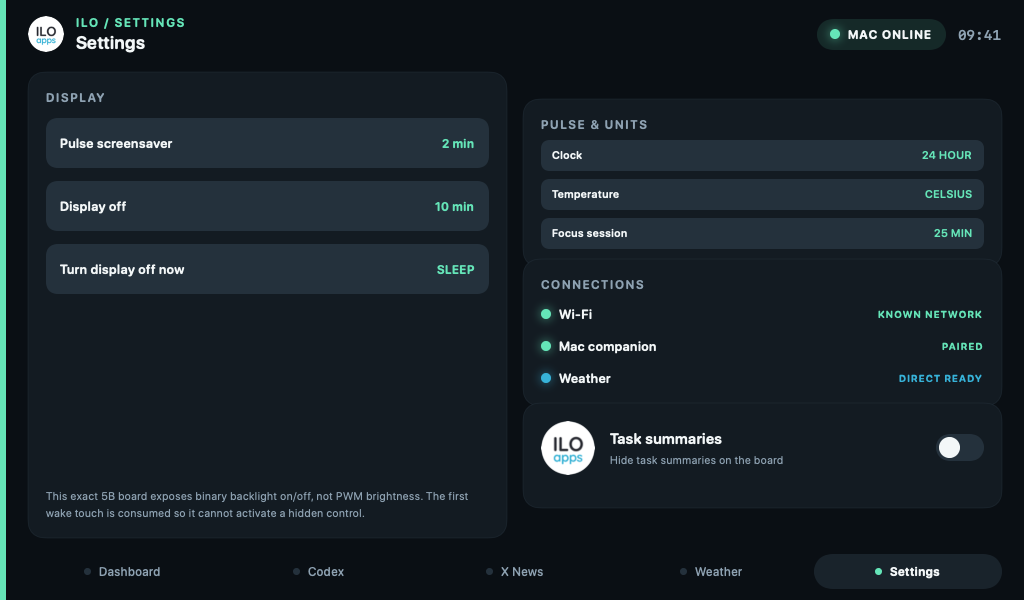
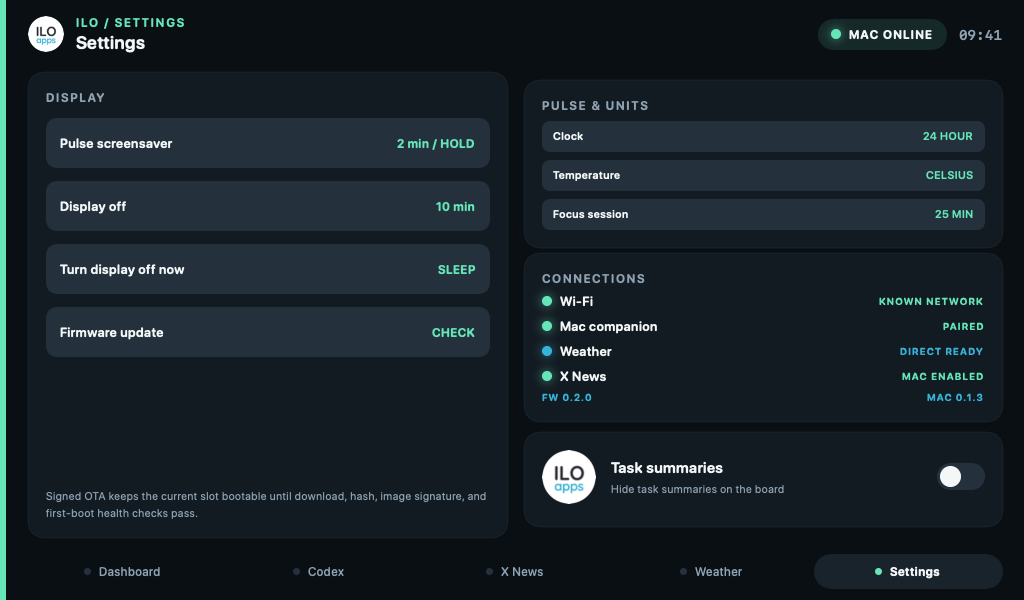
Add ILO PET screensaver hold action

diff --git a/mac-service/Sources/BoardUIPrototype/Views/BoardDeviceView.swift b/mac-service/Sources/BoardUIPrototype/Views/BoardDeviceView.swift
@@ -9,6 +9,7 @@ public struct BoardDeviceView: View {
     @State private var page: BoardPage
     @State private var selectedCodexTask = 0
     @State private var focusContext: FocusPreviewContext?
+    @State private var screensaverVisible = false
     private let interactive: Bool
     private let fixedPage: BoardPage?
     private let scenario: BoardPreviewScenario?
@@ -60,8 +61,12 @@ public struct BoardDeviceView: View {
         Group {
             if scenario == .sleep {
                 BoardSleepValidationView()
-            } else if scenario == .screensaver {
+            } else if scenario == .screensaver || screensaverVisible {
                 BoardScreensaverValidationView()
+                    .contentShape(Rectangle())
+                    .onTapGesture {
+                        if interactive { screensaverVisible = false }
+                    }
             } else {
                 boardSurface
             }
@@ -183,10 +188,18 @@ public struct BoardDeviceView: View {
             case .xNews: XNewsPage(interactive: interactive)
             case .weather: WeatherPage()
             case .settings:
-                SettingsPage(codexEnabled: codexEnabled, xNewsEnabled: xNewsEnabled) { minutes in
-                    guard interactive else { return }
-                    focusContext = FocusPreviewContext(minutes: minutes, title: "Open focus session")
-                }
+                SettingsPage(
+                    codexEnabled: codexEnabled,
+                    xNewsEnabled: xNewsEnabled,
+                    onStartFocus: { minutes in
+                        guard interactive else { return }
+                        focusContext = FocusPreviewContext(minutes: minutes, title: "Open focus session")
+                    },
+                    onShowScreensaver: {
+                        guard interactive else { return }
+                        screensaverVisible = true
+                    }
+                )
             }
         }
     }

diff --git a/mac-service/Sources/BoardUIPrototype/Views/SettingsPage.swift b/mac-service/Sources/BoardUIPrototype/Views/SettingsPage.swift
@@ -6,6 +6,7 @@ struct SettingsPage: View {
     let firmwareVersion: String
     let companionVersion: String
     let onStartFocus: (Int) -> Void
+    let onShowScreensaver: () -> Void
     @State private var screensaverMinutes = 2
     @State private var displayOffMinutes = 10
     @State private var privacyMode = false
@@ -19,13 +20,15 @@ struct SettingsPage: View {
         xNewsEnabled: Bool,
         firmwareVersion: String = "0.2.0",
         companionVersion: String = "0.1.3",
-        onStartFocus: @escaping (Int) -> Void = { _ in }
+        onStartFocus: @escaping (Int) -> Void = { _ in },
+        onShowScreensaver: @escaping () -> Void = {}
     ) {
         self.codexEnabled = codexEnabled
         self.xNewsEnabled = xNewsEnabled
         self.firmwareVersion = firmwareVersion
         self.companionVersion = companionVersion
         self.onStartFocus = onStartFocus
+        self.onShowScreensaver = onShowScreensaver
     }
 
     var body: some View {
@@ -33,9 +36,10 @@ struct SettingsPage: View {
             PulseCard {
                 VStack(alignment: .leading, spacing: 13) {
                     SectionLabel(title: "Display")
-                    settingButton("Pulse screensaver", value: minutes(screensaverMinutes)) {
+                    settingButton("Pulse screensaver", value: "\(minutes(screensaverMinutes)) / HOLD") {
                         screensaverMinutes = next(screensaverMinutes, in: [0, 2, 5])
                     }
+                    .onLongPressGesture(minimumDuration: 0.9, perform: onShowScreensaver)
                     settingButton("Display off", value: minutes(displayOffMinutes)) {
                         displayOffMinutes = next(displayOffMinutes, in: [0, 5, 10, 30])
                     }

diff --git a/mac-service/Sources/BoardUIPrototype/Views/BoardValidationScenarioView.swift b/mac-service/Sources/BoardUIPrototype/Views/BoardValidationScenarioView.swift
@@ -356,7 +356,7 @@ struct BoardScreensaverValidationView: View {
                 Rectangle()
                     .fill(Color(red: 92 / 255, green: 104 / 255, blue: 112 / 255))
                     .frame(width: 2, height: 600)
-                Text("CODEX PET")
+                Text("ILO PET")
                     .font(.board(14, weight: .bold))
                     .tracking(1.0)
                     .foregroundStyle(BoardPalette.signal)
@@ -392,6 +392,6 @@ struct BoardScreensaverValidationView: View {
             .frame(width: 340, height: 600)
         }
         .frame(width: 1024, height: 600)
-        .accessibilityLabel("Pulse screensaver fixture showing clock, date, timezone, and animated Codex Pet Lando")
+        .accessibilityLabel("Pulse screensaver fixture showing clock, date, timezone, and animated ILO PET Lando")
     }
 }

diff --git a/firmware/components/ui/dashboard_ui.c b/firmware/components/ui/dashboard_ui.c
@@ -40,6 +40,7 @@
 #define CODEX_CONTINUE_HOLD_MS 900U
 #define CODEX_RESULT_HOLD_MS 8000U
 #define FOCUS_ACTION_HOLD_MS 900U
+#define SCREENSAVER_ACTION_HOLD_MS 900U
 #define MINIMUM_TRUSTED_EPOCH 1704067200LL
 #define MINUTE_MS 60000U
 #define SCREENSAVER_POSITION_INTERVAL_SECONDS 20U
@@ -154,6 +155,9 @@ static bool focus_hold_consumed;
 static bool focus_end_hold_consumed;
 static bool focus_completion_queued;
 static bool focus_completion_dismissed;
+static uint32_t screensaver_hold_started_tick;
+static bool screensaver_hold_consumed;
+static bool screensaver_forced_visible;
 static lv_obj_t *settings_x_news_value;
 static lv_obj_t *settings_connection_values;
 static lv_obj_t *settings_versions_value;
@@ -216,6 +220,7 @@ static void build_codex_chat_overlay(lv_obj_t *screen);
 static void build_focus_overlay(lv_obj_t *screen);
 static void refresh_focus_overlay(void);
 static bool start_focus_session(const char *title);
+static void show_screensaver_now(void);
 static double display_temperature(float celsius);
 static const char *temperature_unit(void);
 
@@ -1324,6 +1329,7 @@ static void refresh_settings_labels(void)
     char value[20];
     if (settings_screensaver_value != NULL) {
         format_minutes(value, sizeof(value), current_settings.screensaver_minutes);
+        strlcat(value, " / HOLD", sizeof(value));
         lv_label_set_text(settings_screensaver_value, value);
     }
     if (settings_display_off_value != NULL) {
@@ -1699,7 +1705,23 @@ static void focus_timer_tick(void)
 
 static void screensaver_setting_tapped(lv_event_t *event)
 {
-    if (lv_event_get_code(event) != LV_EVENT_CLICKED) return;
+    lv_event_code_t code = lv_event_get_code(event);
+    if (code == LV_EVENT_PRESSED) {
+        screensaver_hold_started_tick = lv_tick_get();
+        screensaver_hold_consumed = false;
+        return;
+    }
+    if (code == LV_EVENT_PRESSING && !screensaver_hold_consumed
+        && lv_tick_elaps(screensaver_hold_started_tick) >= SCREENSAVER_ACTION_HOLD_MS) {
+        screensaver_hold_consumed = true;
+        show_screensaver_now();
+        return;
+    }
+    if (code != LV_EVENT_CLICKED) return;
+    if (screensaver_hold_consumed) {
+        screensaver_hold_consumed = false;
+        return;
+    }
     current_settings.screensaver_minutes = device_settings_next_screensaver(current_settings.screensaver_minutes);
     device_settings_save(&current_settings);
     refresh_settings_labels();
@@ -1775,6 +1797,7 @@ static void focus_setting_tapped(lv_event_t *event)
 static void sleep_now_tapped(lv_event_t *event)
 {
     if (lv_event_get_code(event) != LV_EVENT_RELEASED) return;
+    screensaver_forced_visible = false;
     lv_obj_remove_flag(screensaver, LV_OBJ_FLAG_HIDDEN);
     lando_screensaver_set_active(false);
     if (board_waveshare_5_set_backlight(false) == ESP_OK) {
@@ -2148,6 +2171,7 @@ static void nav_tapped(lv_event_t *event)
 static void screensaver_tapped(lv_event_t *event)
 {
     if (lv_event_get_code(event) == LV_EVENT_PRESSED) {
+        screensaver_forced_visible = false;
         board_waveshare_5_set_backlight(true);
         display_asleep = false;
         lando_screensaver_set_active(false);
@@ -2163,6 +2187,17 @@ static void reset_screensaver_position(void)
     if (screensaver_content != NULL) {
         lv_obj_set_pos(screensaver_content, 132, 214);
     }
+}
+
+static void show_screensaver_now(void)
+{
+    screensaver_forced_visible = true;
+    reset_screensaver_position();
+    refresh_clock_labels();
+    lv_obj_remove_flag(screensaver, LV_OBJ_FLAG_HIDDEN);
+    lv_obj_move_foreground(screensaver);
+    lando_screensaver_set_active(true);
+    lv_display_trigger_activity(ui_display);
 }
 
 static void advance_screensaver_position(void)
@@ -2201,6 +2236,7 @@ static void screensaver_timer(lv_timer_t *timer)
     uint32_t off_timeout = (uint32_t)current_settings.display_off_minutes * MINUTE_MS;
 
     if (!display_asleep && off_timeout > 0 && inactive >= off_timeout) {
+        screensaver_forced_visible = false;
         lv_obj_remove_flag(screensaver, LV_OBJ_FLAG_HIDDEN);
         lando_screensaver_set_active(false);
         if (board_waveshare_5_set_backlight(false) == ESP_OK) {
@@ -2212,7 +2248,7 @@ static void screensaver_timer(lv_timer_t *timer)
         lando_screensaver_set_active(false);
         return;
     }
-    if (saver_timeout > 0 && inactive >= saver_timeout) {
+    if (screensaver_forced_visible || (saver_timeout > 0 && inactive >= saver_timeout)) {
         lv_obj_remove_flag(screensaver, LV_OBJ_FLAG_HIDDEN);
         lando_screensaver_set_active(true);
         advance_screensaver_position();

diff --git a/firmware/components/ui/lando_screensaver.c b/firmware/components/ui/lando_screensaver.c
@@ -170,7 +170,7 @@ lv_obj_t *lando_screensaver_create(lv_obj_t *parent)
     lv_obj_set_style_radius(divider, 0, 0);
     lv_obj_clear_flag(divider, LV_OBJ_FLAG_SCROLLABLE | LV_OBJ_FLAG_CLICKABLE);
 
-    lv_obj_t *eyebrow = create_label(panel, "CODEX PET", &lv_font_montserrat_14, LANDO_COLOR_SIGNAL);
+    lv_obj_t *eyebrow = create_label(panel, "ILO PET", &lv_font_montserrat_14, LANDO_COLOR_SIGNAL);
     lv_obj_set_pos(eyebrow, 34, 42);
     lv_obj_t *name = create_label(panel, "LANDO", &lv_font_montserrat_28, LANDO_COLOR_MIST);
     lv_obj_set_pos(name, 34, 68);

diff --git a/README.md b/README.md
@@ -198,13 +198,23 @@ These are deterministic desktop renders with sample data, not photographs of the
   <img src="docs/images/ui-preview/settings.png" alt="ILO Board Settings simulator screen" width="49%">
 </p>
 
-The Settings screen now cycles and persists the clock format (12/24 hour), temperature units, focus duration (25/45/60 minutes), Pulse screensaver timeout (`Never`, 2, or 5 minutes), display-off timeout (`Never`, 5, 10, or 30 minutes), and whether task summaries are visible. It also offers **Turn display off now**, reports whether X News is Mac-enabled, and opens a board-local Wi-Fi editor with masked password entry. The password stays in board NVS and is never sent to the Mac, Bonjour, screenshots, or logs. Settings survive normal reboot/firmware updates; full USB reprovisioning replaces NVS and returns them to defaults.
+### Meet ILO PET: Lando
+
+**ILO PET** is the board's animated companion, created from Matti's own Codex Pet data and made part of the ILO Board experience. The current pet, **Lando**, lives in the right third of the Pulse screensaver, quietly breathing, blinking, and occasionally waving while the retro clock continues moving across the left two-thirds.
+
+<p align="center">
+  <img src="docs/images/ui-states/screensaver.png" alt="ILO Board Pulse screensaver with the animated ILO PET Lando" width="80%">
+</p>
+
+Lando's mostly black fur sits against a medium slate-gray panel for clear separation from the Carbon background. That color is intentionally easy to tune: regenerate the pet frames with `make lando-asset LANDO_BACKGROUND=3A454C` after choosing a new RGB hex value.
+
+The Settings screen now cycles and persists the clock format (12/24 hour), temperature units, focus duration (25/45/60 minutes), Pulse screensaver timeout (`Never`, 2, or 5 minutes), display-off timeout (`Never`, 5, 10, or 30 minutes), and whether task summaries are visible. Tap the **Pulse screensaver** row to change its timeout, or hold it for 0.9 seconds to show Pulse and ILO PET immediately without changing that saved timeout. Settings also offers **Turn display off now**, reports whether X News is Mac-enabled, and opens a board-local Wi-Fi editor with masked password entry. The password stays in board NVS and is never sent to the Mac, Bonjour, screenshots, or logs. Settings survive normal reboot/firmware updates; full USB reprovisioning replaces NVS and returns them to defaults.
 
 Focus is now a full-screen, standalone **Focus Cockpit** rather than only a saved duration. Tap the Settings value to choose 25, 45, or 60 minutes, then hold that row to start an open session; hold a Dashboard Codex row to attach its board-visible title for the current run. The board owns the countdown, stores its absolute UTC deadline and pause state in NVS, and resumes it from the battery-backed RTC after reset or power loss. Pause/Resume, **+5 MIN**, and a hold-to-end control stay local. A completed session is retained until the paired Mac acknowledges a bounded completion receipt; the companion deduplicates retries and can show a native notification without receiving the selected task title.
 
 The companion also shares the Mac's configured timezone as a bounded current UTC offset and abbreviation. The board continues synchronizing the absolute clock over SNTP, but displays local time using the Mac offset whenever a current companion is connected. The offset is refreshed with every dashboard snapshot for daylight-saving changes and persisted for reboot; weather-location timezone data remains the fallback for older or unavailable companions.
 
-The matching LVGL structure is already compiled into firmware, including horizontal tile gestures, persistent setting controls, a native LVGL ILO roundel, a bounded Pulse saver with Lando in the right third, binary backlight sleep, and a wake touch that is consumed rather than passed through to a hidden control. The Pulse cluster changes among five fixed positions every 20 seconds, while Lando swaps native 192×208 RGB565 breathing, blinking, and waving frames only inside his panel. The 1024×600 software-rendered panel still avoids scaled bitmap transforms, alpha blending, shadows, moving full-screen content, and full-screen boot animation: those effects can monopolize the LVGL task long enough to trigger the ESP32-S3 task watchdog. Do not treat the remaining hardware gates as complete yet: text clipping, CH422G backlight off/on, timeout/wake behavior, real touch targets, and the animated saver soak still need their listed 5B checks.
+The matching LVGL structure is already compiled into firmware, including horizontal tile gestures, persistent setting controls, a native LVGL ILO roundel, a bounded Pulse saver with ILO PET Lando in the right third, binary backlight sleep, and a wake touch that is consumed rather than passed through to a hidden control. The Pulse cluster changes among five fixed positions every 20 seconds, while Lando swaps native 192×208 RGB565 breathing, blinking, and waving frames only inside his panel. The 1024×600 software-rendered panel still avoids scaled bitmap transforms, alpha blending, shadows, moving full-screen content, and full-screen boot animation: those effects can monopolize the LVGL task long enough to trigger the ESP32-S3 task watchdog. Do not treat the remaining hardware gates as complete yet: text clipping, CH422G backlight off/on, timeout/wake behavior, real touch targets, and the animated saver soak still need their listed 5B checks.
 
 An old-school screensaver does make sense here as a product feature: the repositioning Pulse clock remains ambient and glanceable, while Lando provides a quiet animated companion. His medium slate-gray panel deliberately separates black fur from the Carbon canvas. Regenerate that single background choice with `make lando-asset LANDO_BACKGROUND=3A454C`; the generator keeps the firmware frames and desktop preview in sync. Because this is an LCD rather than OLED, actual power savings still come when the backlight is switched off. The exact 5B exposes `DISP` as a binary CH422G expander output, not a PWM brightness channel, so the UX does not promise a fake brightness slider.
 

diff --git a/docs/ux.md b/docs/ux.md
@@ -85,7 +85,7 @@ Reboot, pairing reset, erase, and update installation require a separate confirm
 
 ## Screensaver and power
 
-The screensaver is “Pulse”: the clock/roundel cluster occupies the left two-thirds and snaps among five bounded positions every 20 seconds. The right third is a medium slate-gray Codex Pet panel where Lando breathes, blinks, and occasionally waves using native-size RGB565 frame swaps. The panel color keeps his mostly black fur distinct and is generated from one configurable color value. Touch wakes immediately. When waking from backlight-off sleep, the firmware consumes the entire first touch until release so it cannot accidentally activate a control underneath.
+The screensaver is “Pulse”: the clock/roundel cluster occupies the left two-thirds and snaps among five bounded positions every 20 seconds. The right third is a medium slate-gray ILO PET panel where Lando breathes, blinks, and occasionally waves using native-size RGB565 frame swaps. The panel color keeps his mostly black fur distinct and is generated from one configurable color value. Tap its Settings row to cycle the timeout; hold it for 0.9 seconds to show the saver immediately without changing the saved value. Touch wakes immediately. When waking from backlight-off sleep, the firmware consumes the entire first touch until release so it cannot accidentally activate a control underneath.
 
 This IPS LCD is not primarily at risk of OLED burn-in. A moving screensaver is therefore an ambient experience. The exact 5B routes `DISP` through a CH422G expander output and does not expose PWM brightness control, so the honest power policy is:
 

diff --git a/docs/ui-state-validation.md b/docs/ui-state-validation.md
@@ -37,7 +37,7 @@ The fixture model is intentionally disconnected from the live transport. It cann
   <img src="images/ui-states/loading.png" alt="Codex loading validation fixture" width="49%">
 </p>
 <p align="center">
-  <img src="images/ui-states/screensaver.png" alt="Pulse screensaver with clock and animated Codex Pet Lando" width="49%">
+  <img src="images/ui-states/screensaver.png" alt="Pulse screensaver with clock and animated ILO PET Lando" width="49%">
   <img src="images/ui-states/approval-request.png" alt="Two-step approval safety validation fixture" width="49%">
 </p>
 <p align="center">

diff --git a/CHANGELOG.md b/CHANGELOG.md
@@ -9,7 +9,8 @@ Notable ILO Board macOS companion changes are documented here.
 - Add battery-backed RTC clock fallback
 - Add resilient authenticated USB fallback
 - Add RTC-backed Focus Cockpit with pause, extension, task attachment, and Mac completion notifications
-- Add the animated Lando Codex Pet to the right third of the Pulse screensaver
+- Add the animated ILO PET Lando to the right third of the Pulse screensaver
+- Allow holding the Settings screensaver row to show Pulse and ILO PET immediately
 
 ### Changed
 - Make Wi-Fi scanning deterministic
